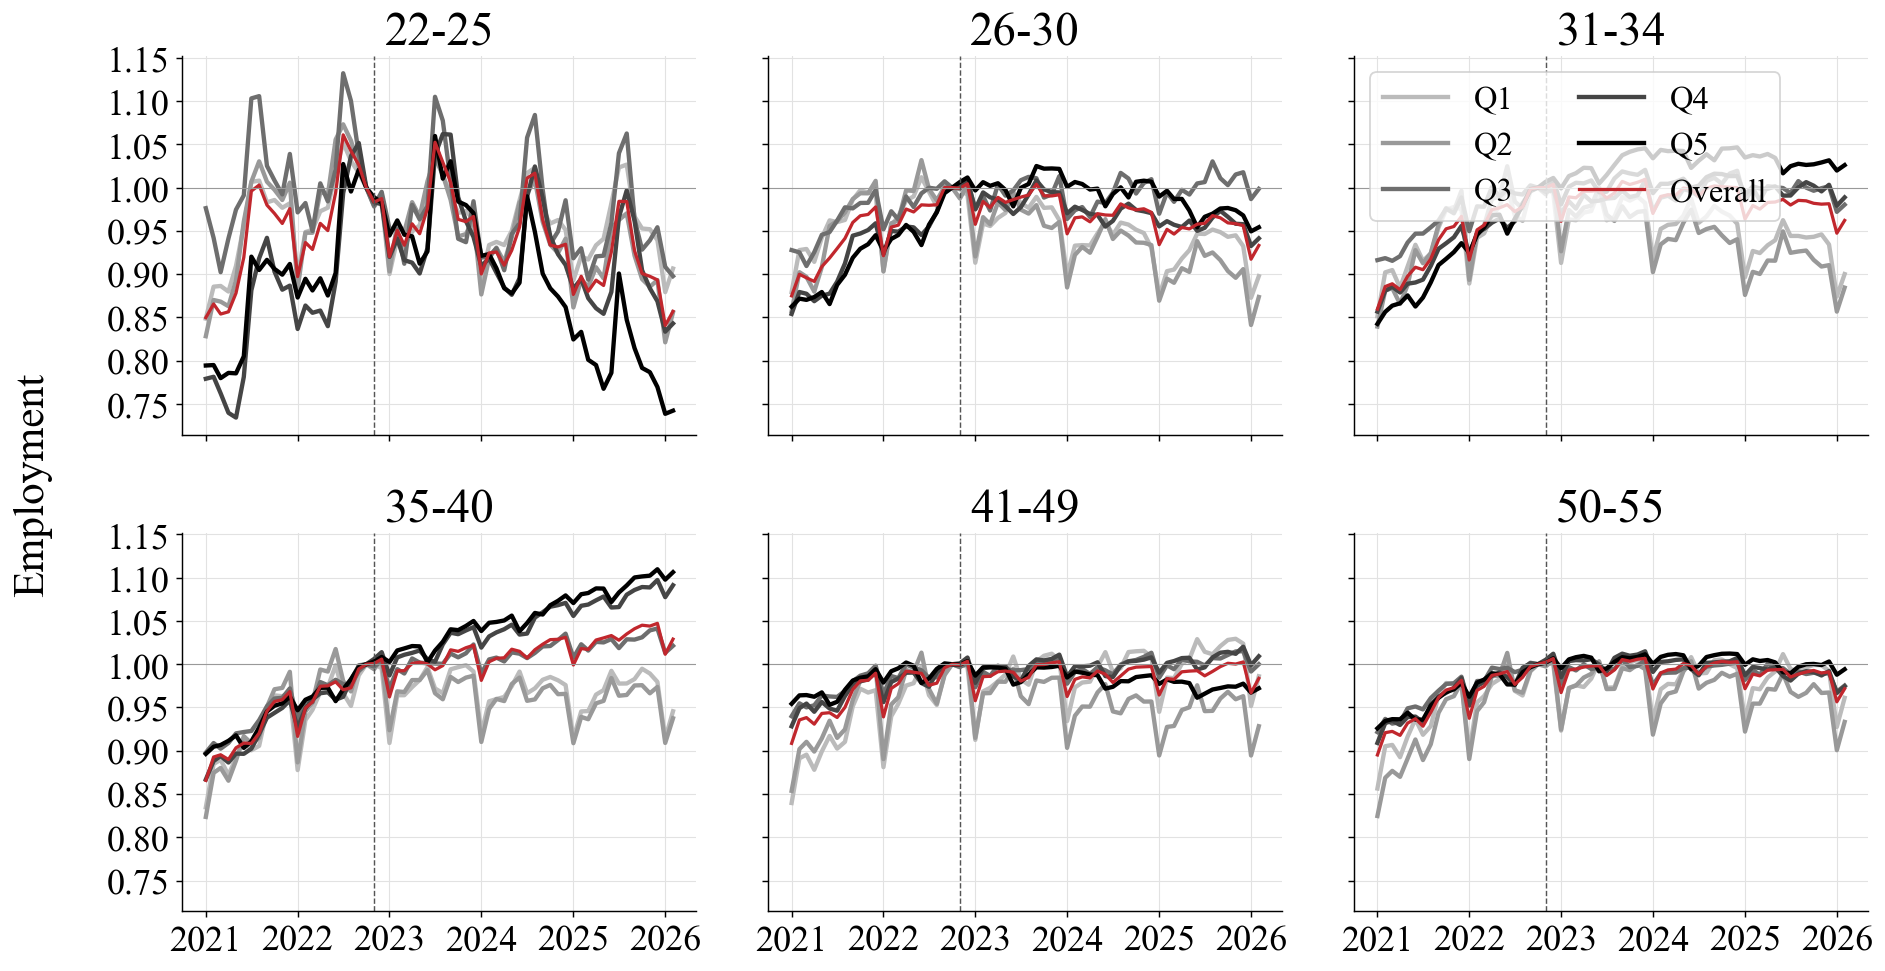
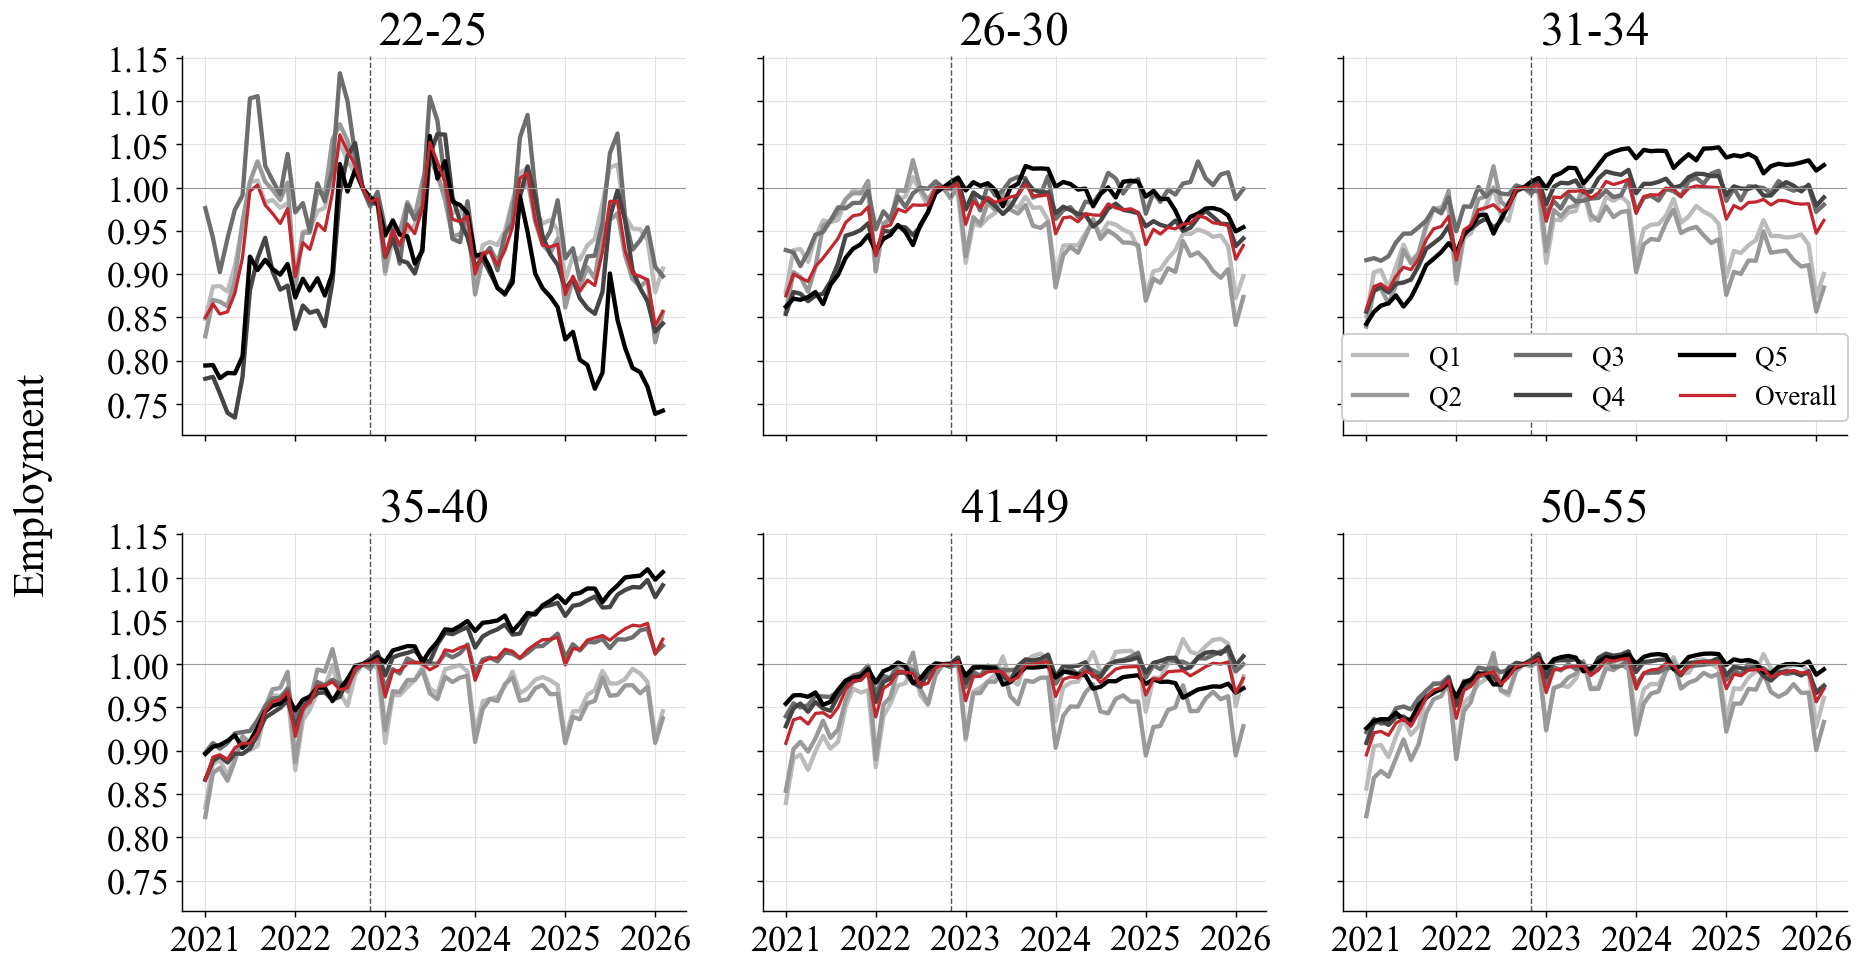
BCC fig 2: move quintile legend to panel bottom (2 rows, smaller, opaque)
The Eloundou-quintile legend sat upper-left over the rising lines in the
31-34 panel. Move it to loc=lower center with ncol=3 (two rows), reduce the
font 18->15, and make the frame opaque so it sits cleanly in the sparse
bottom of the panel.

diff --git a/analysis-indiv/code/plot_bcc_appendix.py b/analysis-indiv/code/plot_bcc_appendix.py
@@ -109,7 +109,7 @@ def fig2_eloundou(emp):
         ydense(ax)
         ax.set_title(BCC_AGE[age])
     fig.supylabel("Employment", fontsize=24)          # one common y title
-    axes.flat[2].legend(fontsize=18, ncol=2, loc="upper left")
+    axes.flat[2].legend(fontsize=15, ncol=3, loc="lower center", framealpha=1.0)
     _save(fig, "fig_bcc_2_eloundou.pdf")
 
 
